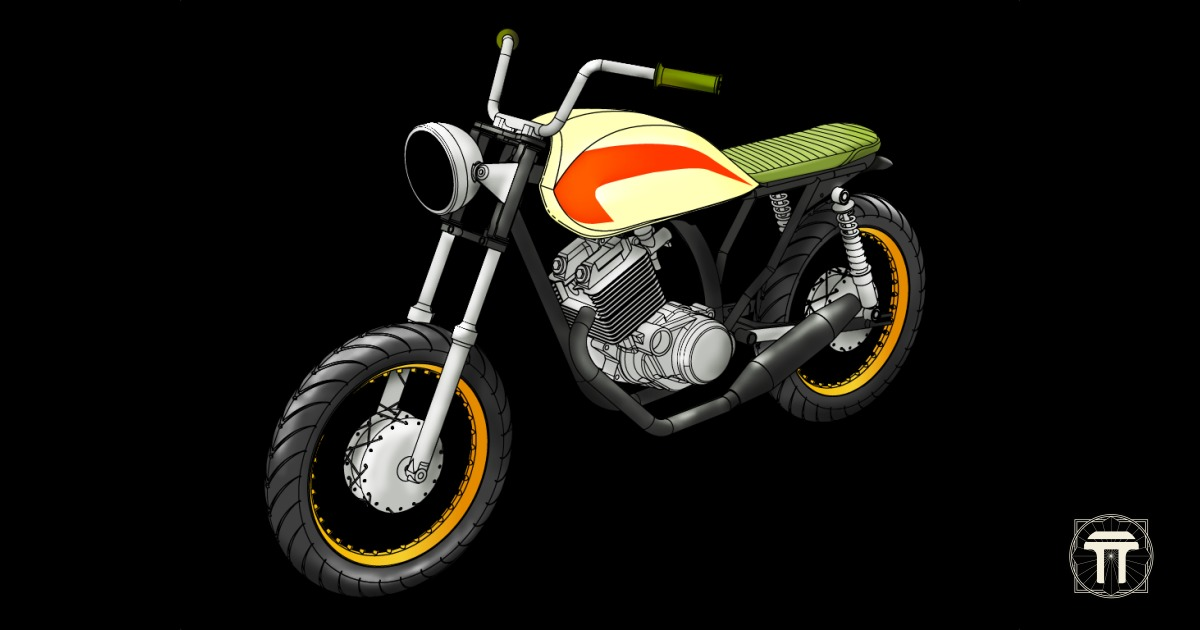
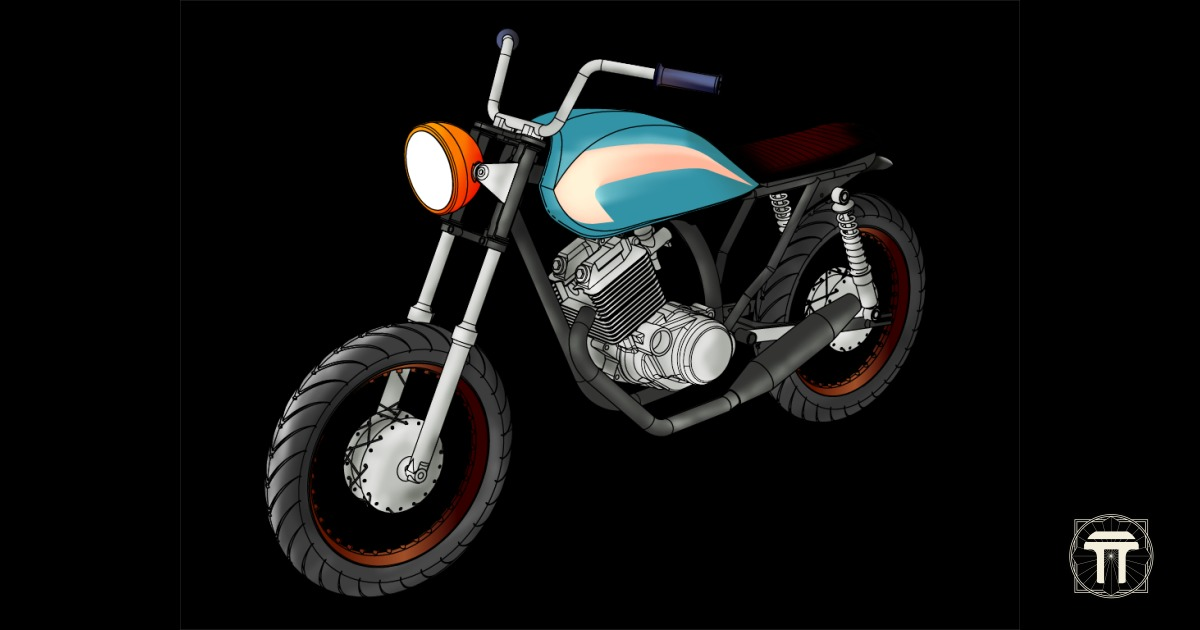
custom app updated

diff --git a/app/controllers/custom_apps_controller.rb b/app/controllers/custom_apps_controller.rb
@@ -2,6 +2,7 @@ class CustomAppsController < ApplicationController
   include CarrierWave::RMagick
   before_action :correct_user, only: :destroy
   before_action :evalua_maximo, only: :create
+  before_action :evalua_imagenes_presentes, only: :create
 
   def index
     @customapps = CustomApp.paginate(page: params[:page], :per_page => 30)
@@ -13,11 +14,9 @@ class CustomAppsController < ApplicationController
   end
 
   def create
-    @customapp = current_user.custom_apps.build(customapp_params)
- #   puts customapp_params
     if @customapp.save
       customapp_in(@customapp) # CustomApp helper para definir una customización actual.
-      crea_imagen(@customapp.est_per_file.to_s, @customapp.apl_per_file.to_s, @customapp.asi_per_file.to_s, @customapp.man_per_file.to_s, @customapp.lla_per_file.to_s, "custom_app/#{@customapp.modelo}/perspectiva/per_plantilla.png", @customapp.modelo)
+      crea_imagen(@customapp.est_per_file.to_s, @customapp.apl_per_file.to_s, @customapp.asi_per_file.to_s, @customapp.man_per_file.to_s, @customapp.lla_per_file.to_s, @customapp.foc_per_file.to_s, "custom_app/#{@customapp.modelo}/perspectiva/per_plantilla.png", @customapp.modelo)
       flash[:success] = "Customización guardada!"
       respond_to do |format|
        format.html { redirect_to customapp_path }
@@ -42,7 +41,7 @@ class CustomAppsController < ApplicationController
   def update
     respond_to do |format|
       if current_custom.update(customapp_params)
-        crea_imagen(current_custom.est_per_file, current_custom.apl_per_file, current_custom.asi_per_file, current_custom.man_per_file,  current_custom.lla_per_file, "custom_app/#{@customapp.modelo}/perspectiva/per_plantilla.png", @customapp.modelo)
+        crea_imagen(current_custom.est_per_file, current_custom.apl_per_file, current_custom.asi_per_file, current_custom.man_per_file,  current_custom.lla_per_file, current_custom.foc_per_file, "custom_app/#{@customapp.modelo}/perspectiva/per_plantilla.png", @customapp.modelo)
         flash[:success] = "Customización guardada!"
         flash[:success] = "Cambios guardados!"
         format.html { redirect_to customapp_path }
@@ -91,6 +90,26 @@ class CustomAppsController < ApplicationController
       end
     end
 
+    def evalua_imagenes_presentes
+      @customapp = current_user.custom_apps.build(customapp_params)
+      t = 'transparente'
+      est = /(transparent)\w+/.match(@customapp.est_per_file).to_s
+      apl = /(transparent)\w+/.match(@customapp.apl_per_file).to_s
+      asi = /(transparent)\w+/.match(@customapp.asi_per_file).to_s
+      man = /(transparent)\w+/.match(@customapp.man_per_file).to_s
+      lla = /(transparent)\w+/.match(@customapp.lla_per_file).to_s
+      foc = /(transparent)\w+/.match(@customapp.foc_per_file).to_s
+      if est == t || apl == t || asi == t || man == t || lla == t || foc == t
+        flash[:info] = "Inténtalo otra vez, pero esta vez debes escoger un color para todas las piezas de la moto"
+        respond_to do |format|
+        format.html { redirect_to customapp_path }
+        format.json { render :json => {
+            :location => url_for(:controller => 'static_pages', :action => 'customapp')
+          }}
+        end
+      end
+    end
+
     def crea_imagen_byn(est, apl, asi, man, base)
       path_img_est = est# "perspectiva/per_estanque_E1FFC6.png"
       path_img_apl = apl# "perspectiva/per_aplicacion_ABA8FF.png"
@@ -107,17 +126,19 @@ class CustomAppsController < ApplicationController
       capa_1.write("imagem_temporal_moto_byn.jpg")
     end
   
-    def crea_imagen(est, apl, asi, man, lla, base, modelo)
+    def crea_imagen(est, apl, asi, man, lla, foc, base, modelo)
       color_est = get_color_from_path est
       color_apl = get_color_from_path apl
       color_asi = get_color_from_path asi
       color_man = get_color_from_path man
       color_lla = get_color_from_path lla
+      color_foc = get_color_from_path foc
       est = "#{Rails.root}"+"/app/assets/images/custom_app/"+modelo+"/perspectiva/per_estanque_"+color_est.to_s+".png"
       apl = "#{Rails.root}"+"/app/assets/images/custom_app/"+modelo+"/perspectiva/per_aplicacion_"+color_apl.to_s+".png"
       asi = "#{Rails.root}"+"/app/assets/images/custom_app/"+modelo+"/perspectiva/per_asiento_"+color_asi.to_s+".png"
       man = "#{Rails.root}"+"/app/assets/images/custom_app/"+modelo+"/perspectiva/per_manilla_"+color_man.to_s+".png"
       lla = "#{Rails.root}"+"/app/assets/images/custom_app/"+modelo+"/perspectiva/per_llanta_"+color_lla.to_s+".png"
+      foc = "#{Rails.root}"+"/app/assets/images/custom_app/"+modelo+"/perspectiva/per_foco_"+color_foc.to_s+".png"
       logo = "#{Rails.root}"+"/app/assets/images/custom_app/"+modelo+"/area_logo_transparente.png"
       base =  "#{Rails.root}"+"/app/assets/images/custom_app/"+modelo+"/perspectiva/per_plantilla.png"
       capa_1 = Magick::Image.read( est ).first
@@ -125,12 +146,13 @@ class CustomAppsController < ApplicationController
       capa_3 = Magick::Image.read( asi ).first
       capa_4 = Magick::Image.read( man ).first
       capa_5 = Magick::Image.read( lla ).first
-      capa_6 = Magick::Image.read( logo ).first
-      capa_7 = Magick::Image.read( base ).first
-      capa_1.composite!(capa_2.composite!(capa_3.composite!( capa_4.composite!( capa_5.composite!(capa_7, Magick::CenterGravity, Magick::OverCompositeOp ),Magick::CenterGravity, Magick::OverCompositeOp), Magick::CenterGravity, Magick::OverCompositeOp ), Magick::CenterGravity, Magick::OverCompositeOp ), Magick::CenterGravity, Magick::OverCompositeOp ) 
+      capa_6 = Magick::Image.read( foc ).first
+      capa_7 = Magick::Image.read( logo ).first
+      capa_8 = Magick::Image.read( base ).first
+      capa_1.composite!(capa_2.composite!(capa_3.composite!( capa_4.composite!( capa_5.composite!( capa_6.composite!(capa_8, Magick::CenterGravity, Magick::OverCompositeOp ),Magick::CenterGravity, Magick::OverCompositeOp),Magick::CenterGravity, Magick::OverCompositeOp), Magick::CenterGravity, Magick::OverCompositeOp ), Magick::CenterGravity, Magick::OverCompositeOp ), Magick::CenterGravity, Magick::OverCompositeOp ) 
       capa_1 = capa_1.scale(840, 630)
-      capa_6.composite!(capa_1, Magick::CenterGravity, Magick::OverCompositeOp ) #capa de 1200 x 630 para tamaño facebook
-      capa_6.write("app/assets/images/imagem_temporal_moto.jpg")
+      capa_7.composite!(capa_1, Magick::CenterGravity, Magick::OverCompositeOp ) #capa de 1200 x 630 para tamaño facebook
+      capa_7.write("app/assets/images/imagem_temporal_moto.jpg")
 
       File.open(File.join(Rails.root,"/app/assets/images/imagem_temporal_moto.jpg")) do |f|
          current_custom.picture = f

diff --git a/app/controllers/static_pages_controller.rb b/app/controllers/static_pages_controller.rb
@@ -21,7 +21,7 @@ class StaticPagesController < ApplicationController
         @customapp = current_user.custom_apps
         
         if customapp_in?
-          crea_gon_object(current_custom.est_per_file, current_custom.apl_per_file, current_custom.asi_per_file, current_custom.man_per_file, current_custom.lla_per_file, "custom_app/#{current_custom.modelo}/perspectiva/per_plantilla.png", @modelo) # crea objeto gon, con los datos de color de las partes de la moto => gon.archivos
+          crea_gon_object(current_custom.est_per_file, current_custom.apl_per_file, current_custom.asi_per_file, current_custom.man_per_file, current_custom.lla_per_file, current_custom.foc_per_file, "custom_app/#{current_custom.modelo}/perspectiva/per_plantilla.png", @modelo) # crea objeto gon, con los datos de color de las partes de la moto => gon.archivos
           gon.update_path = custom_app_path(@customapp)  
         end
 #        puts @customapp.est_lat_file
@@ -85,12 +85,13 @@ class StaticPagesController < ApplicationController
 
   private
 
-    def crea_gon_object(est, apl, asi, man, lla, base, modelo)
+    def crea_gon_object(est, apl, asi, man, lla, foc, base, modelo)
       color_est = get_color_from_path est
       color_apl = get_color_from_path apl
       color_asi = get_color_from_path asi
       color_man = get_color_from_path man
       color_lla = get_color_from_path lla
+      color_foc = get_color_from_path foc
       
       #archivos del estanque
           @est_pf = ActionController::Base.helpers.asset_path "custom_app/"+modelo.to_s+"/perspectiva/per_estanque_"+color_est.to_s+".png" 
@@ -112,13 +113,17 @@ class StaticPagesController < ApplicationController
           @lla_pf = ActionController::Base.helpers.asset_path "custom_app/"+modelo.to_s+"/perspectiva/per_llanta_"+color_lla.to_s+".png" 
           @lla_lf = ActionController::Base.helpers.asset_path "custom_app/"+modelo.to_s+"/lateral/lat_llanta_"+color_lla.to_s+".png"
           @lla_sf = ActionController::Base.helpers.asset_path "custom_app/"+modelo.to_s+"/superior/sup_llanta_"+color_lla.to_s+".png"
+      # Focos
+          @foc_pf = ActionController::Base.helpers.asset_path "custom_app/"+modelo.to_s+"/perspectiva/per_foco_"+color_foc.to_s+".png" 
+          @foc_lf = ActionController::Base.helpers.asset_path "custom_app/"+modelo.to_s+"/lateral/lat_foco_"+color_foc.to_s+".png"
+          @foc_sf = ActionController::Base.helpers.asset_path "custom_app/"+modelo.to_s+"/superior/sup_foco_"+color_foc.to_s+".png"
           
           gon.archivos = { est_pf: @est_pf, est_lf: @est_lf, est_sf: @est_sf,
                            apl_pf: @apl_pf, apl_lf: @apl_lf, apl_sf: @apl_sf,
                            asi_pf: @asi_pf, asi_lf: @asi_lf, asi_sf: @asi_sf,
                            man_pf: @man_pf, man_lf: @man_lf, man_sf: @man_sf, 
-                           lla_pf: @lla_pf, lla_lf: @lla_lf, lla_sf: @lla_sf} 
-                          # Falta colocar la info de llantay foco
+                           lla_pf: @lla_pf, lla_lf: @lla_lf, lla_sf: @lla_sf, 
+                           foc_pf: @foc_pf, foc_lf: @foc_lf, foc_sf: @foc_sf} 
    end
 
 end

diff --git a/app/models/custom_app.rb b/app/models/custom_app.rb
@@ -1,5 +1,24 @@
 class CustomApp < ActiveRecord::Base
 	validates :modelo, presence: true
+  validates :est_per_file, presence: true
+  validates :est_lat_file, presence: true
+  validates :est_sup_file, presence: true
+  validates :apl_per_file, presence: true
+  validates :apl_lat_file, presence: true
+  validates :apl_sup_file, presence: true
+  validates :asi_per_file, presence: true
+  validates :asi_lat_file, presence: true
+  validates :asi_sup_file, presence: true
+  validates :man_per_file, presence: true
+  validates :man_lat_file, presence: true
+  validates :man_sup_file, presence: true
+  validates :lla_per_file, presence: true
+  validates :lla_lat_file, presence: true
+  validates :lla_sup_file, presence: true
+  validates :foc_per_file, presence: true
+  validates :foc_lat_file, presence: true
+  validates :foc_sup_file, presence: true
+
   belongs_to :user
   mount_uploader :picture, PictureUploader
 end
